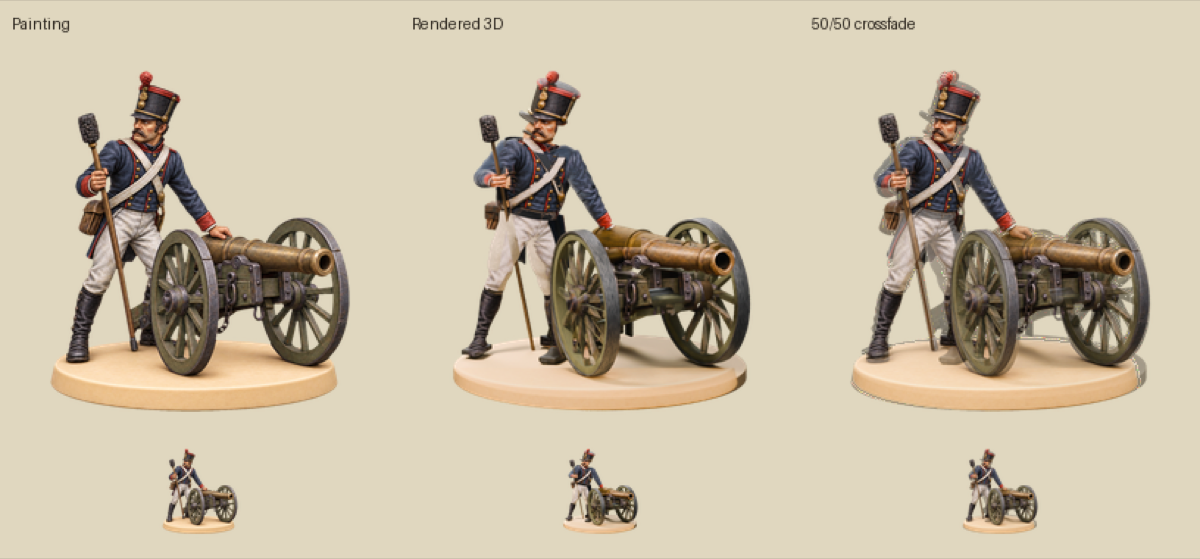
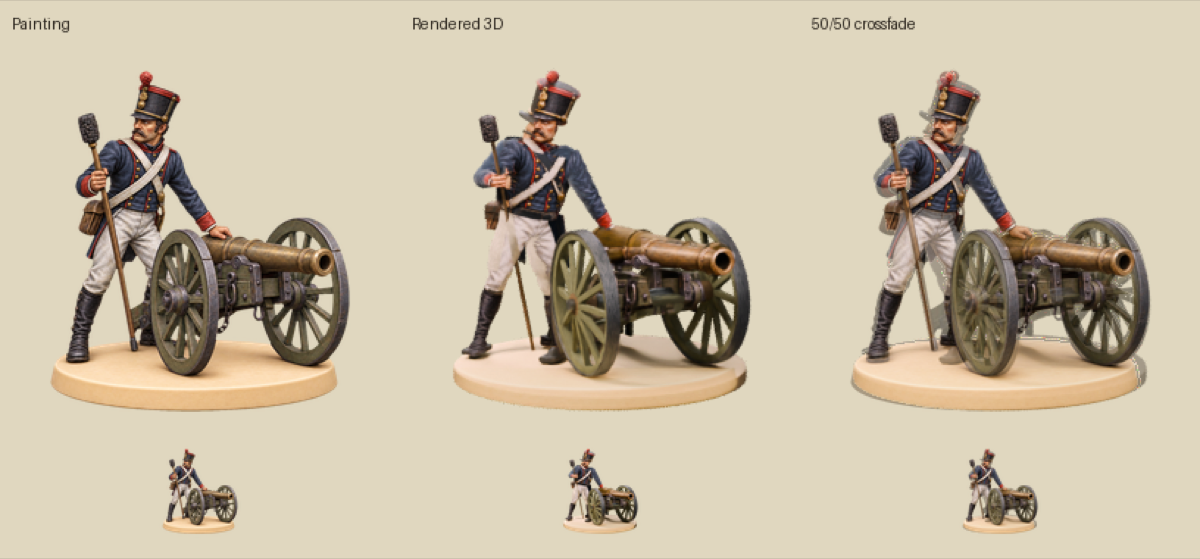
3D spearman interim review images

diff --git a/tools/art/anim3d/review/spearman-log.md b/tools/art/anim3d/review/spearman-log.md
@@ -117,3 +117,8 @@
 - Round8 opened new idle/move/attack strips at256/64: same recognizable unit, fuller fist retained, base shadows quieter. Lifted foot and raised-arm paint stretching remain; no visual PASS inferred from successful renders. Unit feedback unchanged on recheck.
 - Round8 rebuilt and CPU-rendered hit, 256px /12 samples, one frozen rest grade.
 - Round8 rebuilt and CPU-rendered death, 256px /12 samples, one frozen rest grade.
+- Final round8 CPU checks:40 saved-rig samples,zero findings; scene checks pass. Trimmed160px atlas181968bytes at quality80,40 records; current hashes, exact decoded alpha/offsets/gutters/bounds/motion and held-death byte identity PASS. Two regression tests;26 Python/3 Bash/2 JSON syntax,34-file hygiene and whitespace PASS.
+- Final round8 movie verified:H.264 yuv420p,1600x352,192 frames at24fps,8seconds,five simultaneous decoded clips. Opened all five strips,clay,rig poses,rest split/crossfade at256/64,decoded atlas,new movie contact frames and final512px CPU detail render.
+- Final round8 verdict:NOT PASS. At256px modestly closer fist/shoulder/crest and smoother paler stone; cheek,sandals,stance,shield perimeter and base shading still differ. At64px same spearman identity,still distinguishable stance/base. Raised-arm/lifted-foot paint stretching and pale fallen-pose seams remain. No PASS file. GPU512/256 final export awaits ROUND=8 tools/art/anim3d/units/spearman/gpu.sh; requested round7 GPU log absent,so no GPU execution claim.
+- Non-obvious finding: compare raw and graded figure/base regions separately before changing the global histogram grade. Here the grade improved the figure; correcting the physical stone lighting/pigment preserved that benefit. No new asset/service or feedback additions.
+- Round8 commit handoff: git add failed creating .git/worktrees/spearman-round2/index.lock (Operation not permitted). Seven files remain for runner commit with Co-Authored-By: gpt-6-astra (Codex) <noreply@openai.com>. Branch astra/unit-anim-3d-v2 already contains available origin/master (0 missing commits); no fetch,push or PR.

diff --git a/tools/art/anim3d/review/field-cannon-log.md b/tools/art/anim3d/review/field-cannon-log.md
@@ -283,3 +283,4 @@
 - ROUND 7 GIT: origin/master already an ancestor of HEAD; no fetch/merge needed. git add denied at .git/worktrees/siege-round2/index.lock (Operation not permitted), so no commit created. Twelve changed/new files remain on astra/unit-anim-3d-siege for runner; required-trailer commit message saved at masters/field-cannon/round7-commit.txt. No push, PR or master operation.
 - ROUND 8 FIRST REVIEW: Opened c-textured-lit, f-restpose-compare, all five e strips, round7 MP4 contact frames and original panel before editing. Named GPU driver log, unit transcript and receipt are absent; c/render.json reports CPU256/12, so round7 GPU execution is unverified. At256 the near-wheel spokes are muddy/doubled, gunner face and tailoring remain simplified, base is broad/pink with a hard dark right edge, and the palm vanishes into the breech. At64 identity reads but silhouette and colour do not match closely enough. Move remains rigid and death mechanically authored. NOT PASS. Loaded all six Blender skills and full feedback/history/playbook; retain true geometry, original generated wool fills, finished-surface projection, real straps/folds/bevels, product softboxes and frozen automatic histogram grade. Prioritize physical hub/spoke registration and clean source ownership plus stone calibration.
 - Posted field-cannon-c-textured-lit.png; actual CYCLES render, visual review pending.
+- Posted field-cannon-c-textured-lit.png; actual CYCLES render, visual review pending.
